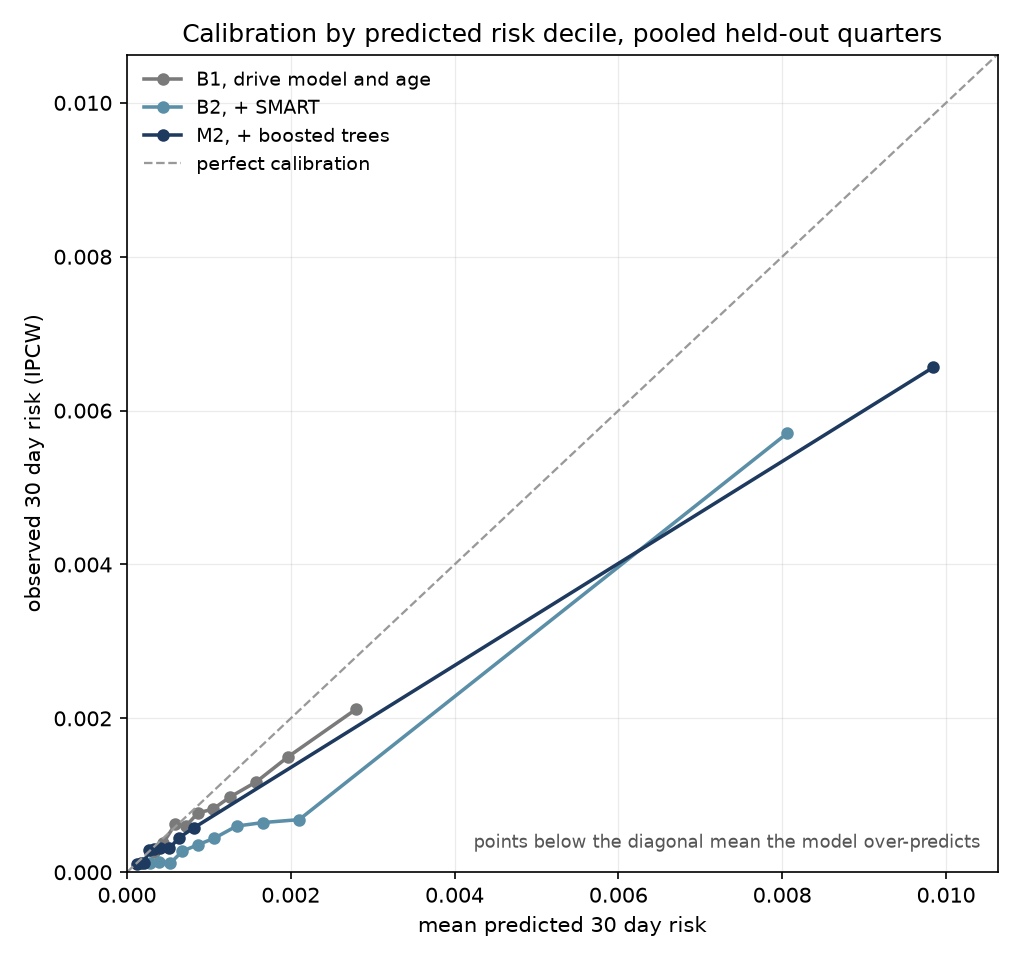
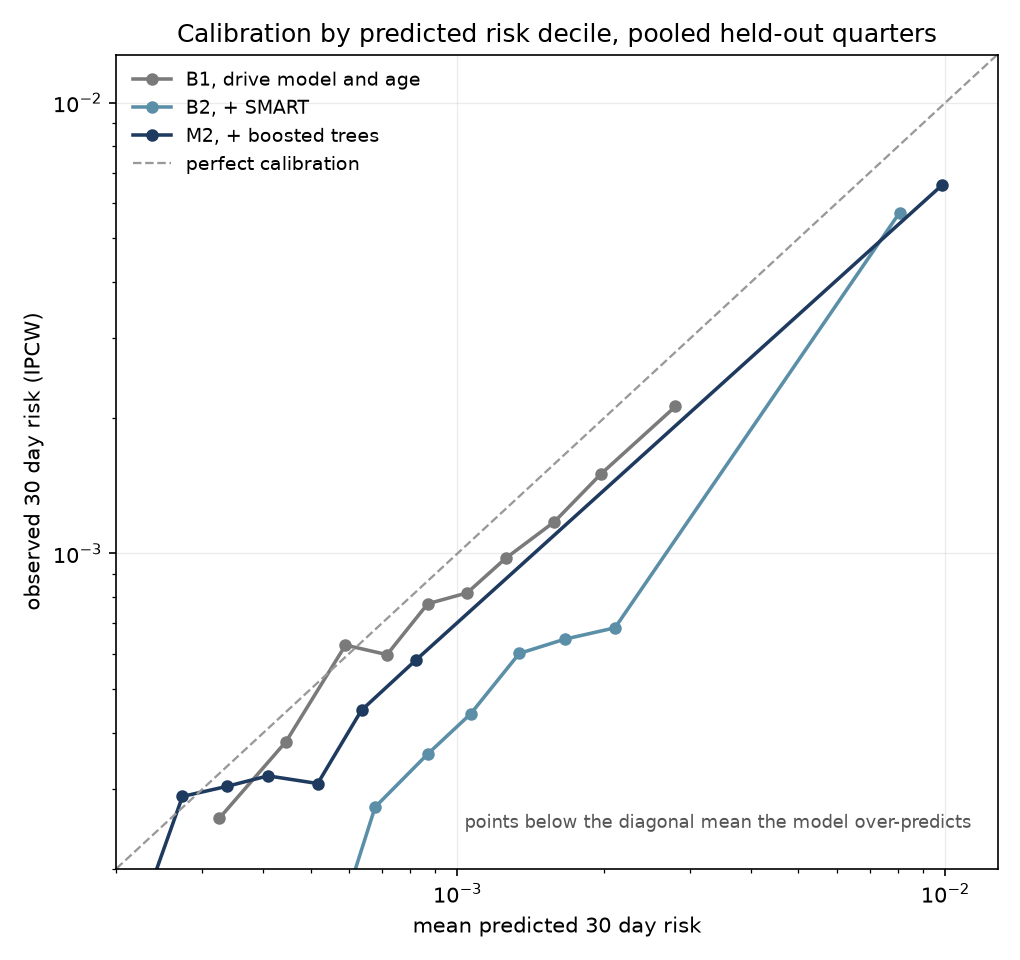
Figure pass: truncate hazard, zoom validation, log-log calibration, add ladder and RQ2 summaries, drop uninterpretable coefficient plots

diff --git a/scripts/s10_summary_figures.py b/scripts/s10_summary_figures.py
@@ -101,17 +101,24 @@ def figure_calibration(tables: Path, figures: Path) -> None:
         spread = c["ratio_obs_pred"].max() - c["ratio_obs_pred"].min()
         print(f"  {label}: decile spread {spread:.3f}")
 
-    lim *= 1.08
-    ax.plot([0, lim], [0, lim], color="#999999", lw=1.1, ls="--",
+    # Log-log axes. Predicted risks span two orders of magnitude across the
+    # deciles, and on a linear scale the eight lowest deciles of every model pile
+    # into the bottom-left corner while the axis is set by the top decile of
+    # whichever model predicts highest.
+    lim *= 1.3
+    lo = 2e-4
+    ax.plot([lo, lim], [lo, lim], color="#999999", lw=1.1, ls="--",
             label="perfect calibration")
-    ax.set_xlim(0, lim)
-    ax.set_ylim(0, lim)
+    ax.set_xscale("log")
+    ax.set_yscale("log")
+    ax.set_xlim(lo, lim)
+    ax.set_ylim(lo, lim)
     ax.set_xlabel("mean predicted 30 day risk")
     ax.set_ylabel("observed 30 day risk (IPCW)")
     ax.set_title("Calibration by predicted risk decile, pooled held-out quarters")
     ax.grid(alpha=0.25, lw=0.6)
     ax.legend(fontsize=9, frameon=False, loc="upper left")
-    ax.text(0.98, 0.03, "points below the diagonal mean the model over-predicts",
+    ax.text(0.97, 0.05, "points below the diagonal mean the model over-predicts",
             transform=ax.transAxes, fontsize=8.5, color="#555555", ha="right")
     fig.tight_layout()
     fig.savefig(figures / "summary_calibration.png", dpi=150)

diff --git a/scripts/s5_b2_smart.py b/scripts/s5_b2_smart.py
@@ -419,8 +419,10 @@ def main() -> int:
         with pd.option_context("display.width", 200, "display.float_format", "{:.4f}".format):
             print(coef_last[["feature", "hazard_ratio", "hr_lo", "hr_hi", "z"]]
                   .to_string(index=False))
-        plot_coefficients(coef_last[coef_last["feature"] != "intercept"],
-                          figures / "b2_coefficients.png")
+        # Coefficient forest plot removed. SMART counters are collinear, so the
+        # individual hazard ratios are not reliably interpretable, and a forest
+        # plot invites exactly that reading. The full table stays in
+        # reports/, and the predictive comparison is the reportable result.
 
     all_test = pd.concat(pooled, ignore_index=True)
     print(f"\npooled: {len(all_test):,} rows, {int(all_test['fail'].sum()):,} events")

diff --git a/scripts/s6_b3_seagate.py b/scripts/s6_b3_seagate.py
@@ -285,7 +285,10 @@ def main() -> int:
         with pd.option_context("display.width", 200, "display.float_format", "{:.4f}".format):
             print(seagate_only[["feature", "hazard_ratio", "hr_lo", "hr_hi", "z"]]
                   .to_string(index=False))
-        plot_incremental(full, figures / "b3_seagate_attributes.png")
+        # Coefficient forest plot removed. SMART counters are collinear, so the
+        # individual hazard ratios are not reliably interpretable, and a forest
+        # plot invites exactly that reading. The full table stays in
+        # reports/, and the predictive comparison is the reportable result.
 
     all_test = pd.concat(pooled, ignore_index=True)
     print(f"\npooled Seagate: {len(all_test):,} rows, "
